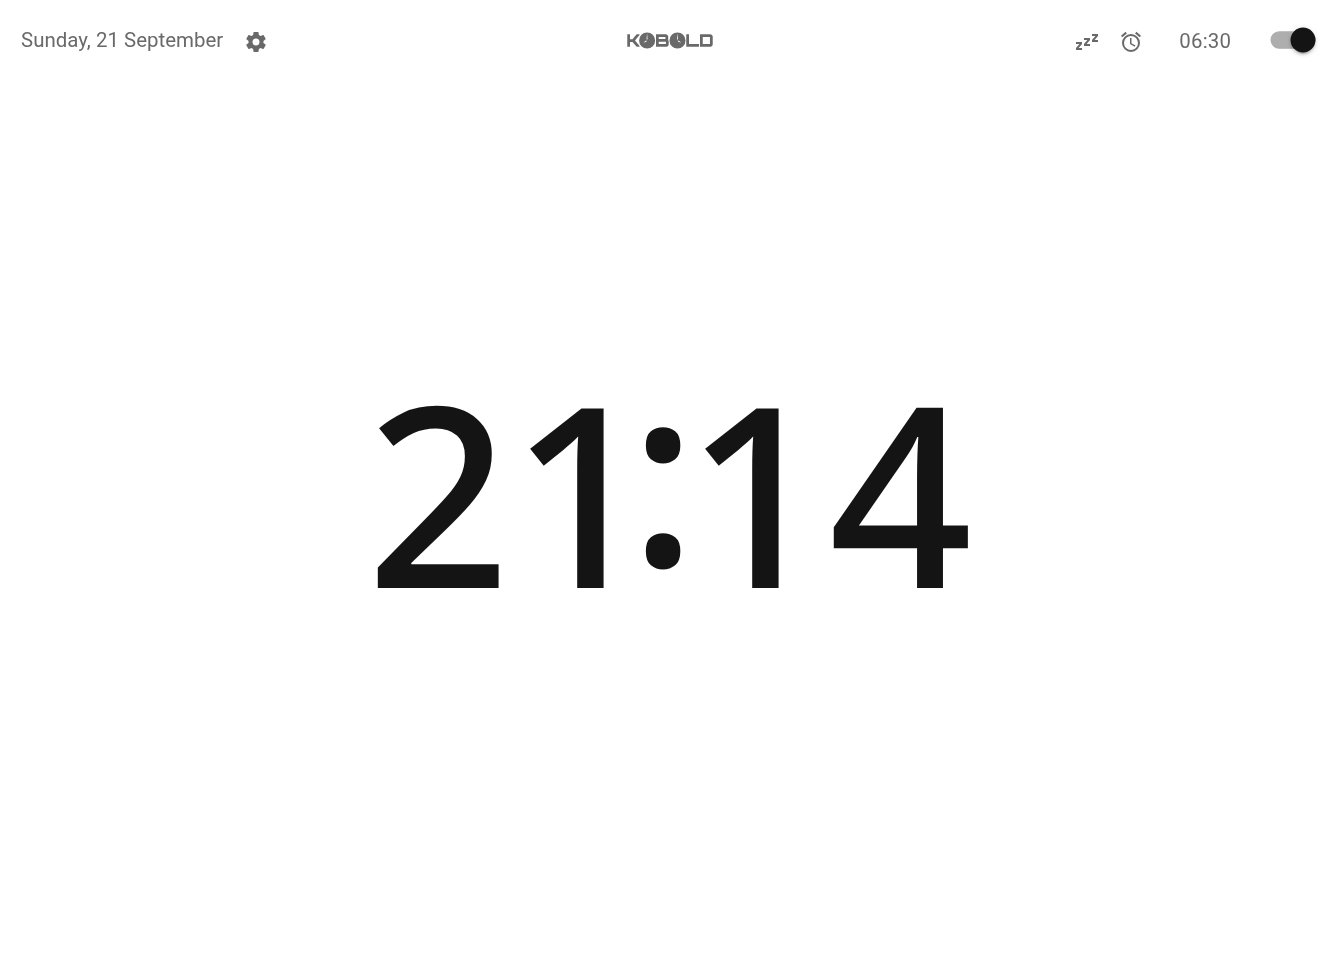
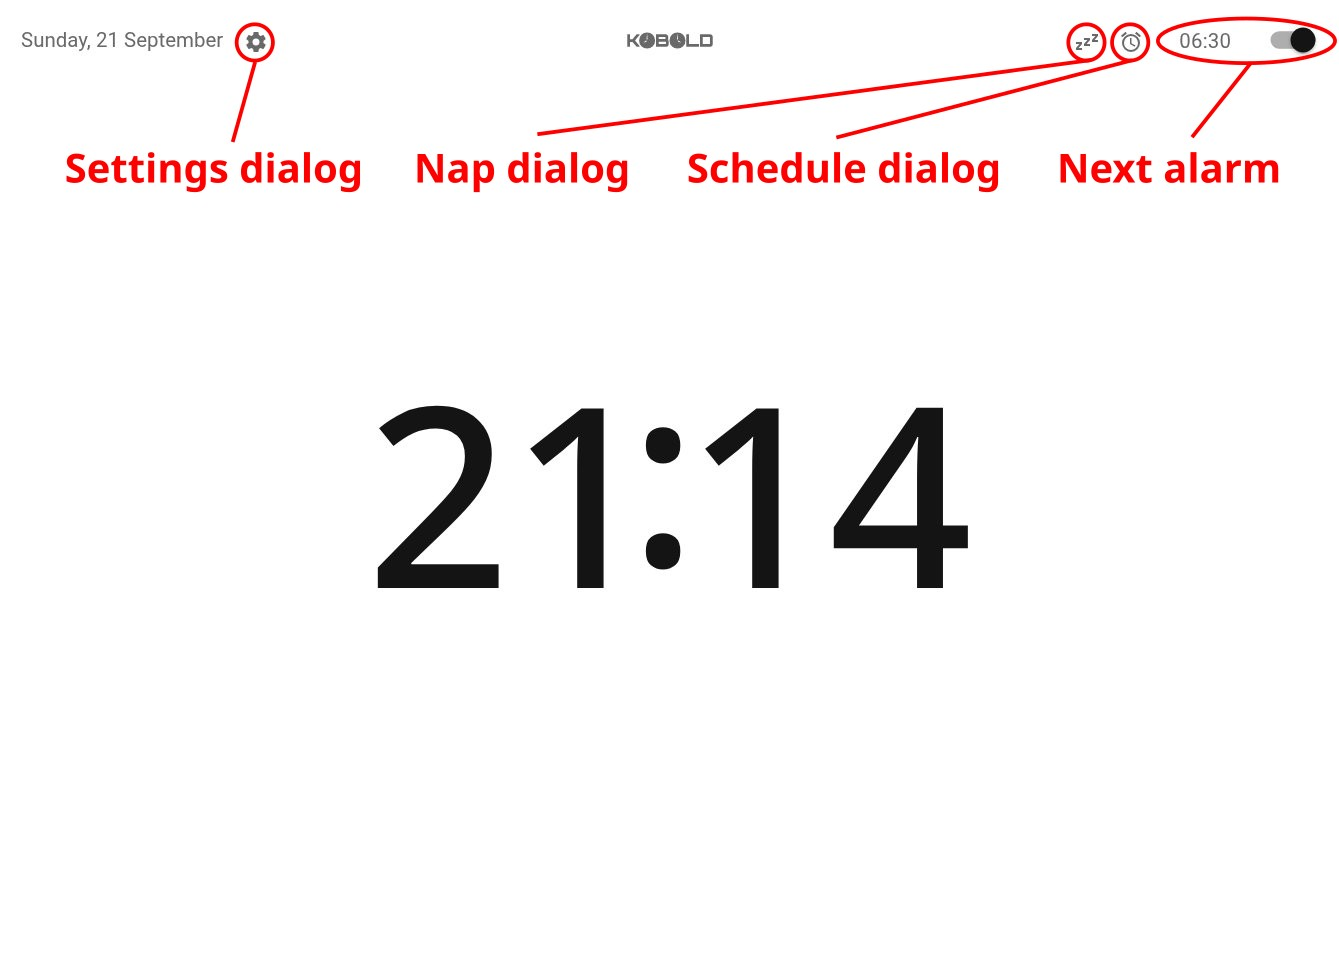
readme tweak: main-view

diff --git a/README.md b/README.md
@@ -1,6 +1,6 @@
 <br><br>
 <div align="center">
-    <img src="https://codeberg.org/entekadesign/kobold-alarm-clock-card/media/branch/main/assets/kobold-logo.svg" alt="Kobolt Logo" width="50%" align="center" />
+    <img src="https://codeberg.org/entekadesign/kobold-alarm-clock-card/media/branch/main/assets/kobold-logo.svg" alt="Kobold Logo" width="50%" align="center" />
 </div>
 <br><br>
 
@@ -39,7 +39,7 @@ Install the Kobold custom card on your Home Assistant (HA) instance to turn almo
 |||
 | <figure><img src="https://codeberg.org/entekadesign/kobold-alarm-clock-card/media/branch/main/assets/settings.jpg" alt="Settings dialog" width="100%" align="" /><figcaption>**Settings dialog**</figcaption></figure> | <figure><img src="https://codeberg.org/entekadesign/kobold-alarm-clock-card/media/branch/main/assets/nap.jpg" alt="Nap dialog" width="100%" align="" /><figcaption>**Nap dialog**</figcaption></figure> |
 |||
-| <figure><img src="https://codeberg.org/entekadesign/kobold-alarm-clock-card/media/branch/main/assets/schedule.jpg" alt="Alarm schedule dialog" width="100%" align="" /><figcaption>**Alarm schedule dialog: editing alarm**</figcaption></figure> | <figure><img src="https://codeberg.org/entekadesign/kobold-alarm-clock-card/media/branch/main/assets/show-cards.jpg" alt="Main view, showing cards" width="100%" align="" /><figcaption>**Main view: dark mode, added HA cards,<br>alternate font**</figcaption></figure> |
+| <figure><img src="https://codeberg.org/entekadesign/kobold-alarm-clock-card/media/branch/main/assets/schedule.jpg" alt="Alarm schedule dialog" width="100%" align="" /><figcaption>**Alarm schedule dialog: editing alarm**</figcaption></figure> | <figure><img src="https://codeberg.org/entekadesign/kobold-alarm-clock-card/media/branch/main/assets/show-cards.jpg" alt="Main view, showing cards" width="100%" align="" /><figcaption>**Main view: HA dark mode, added HA cards,<br>alternate font**</figcaption></figure> |
 |||
 
 <br>
@@ -90,7 +90,7 @@ If you installed Kobold manually:
 ```
 
 ## Upgrading from v1.nn
-Delete your lovelace configuration except for the minimal configuration shown in step 2 above. Kobold should immediately rebuild your configuration, at which point you may restore any settings you choose to preserve. If a setting you want to restore is available in the visual editor of the **settings dialog**, using it can help ensure that the configuration's [YAML](https://www.home-assistant.io/docs/configuration/yaml/) structure remains valid.
+Delete your lovelace configuration except for the minimal configuration shown in manual configuration step 2 above. Kobold should immediately rebuild your configuration, at which point you may restore any settings you choose to preserve. If a setting you want to restore is available in the visual editor of the **settings dialog**, using it can help ensure that the configuration's [YAML](https://www.home-assistant.io/docs/configuration/yaml/) structure remains valid.
 
 ## Usage
 
